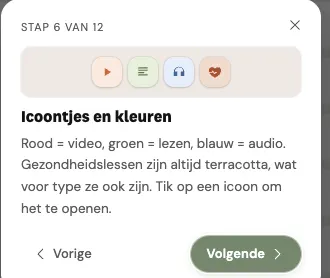
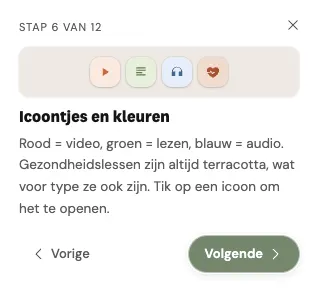
Replace puppyagenda tooltip image with clean borderless version
The "STAP 6 VAN 12" pop-up overlay on the puppyagenda progress section had a
hard black border baked into the screenshot, worked around in CSS by clipping
the corners and adding a border + box-shadow. Owner supplied a clean
recreation: a transparent PNG (317x290) with its own rounded corners and soft
shadow.

- Swap public/images/pa-tooltip.png for the clean version and regenerate the
  AVIF/WebP variants (served via OptimizedImage as web-friendly formats)
- Update SHOTS.tooltip width/height to the new 317x290 intrinsic ratio (CLS)
- Drop the now-redundant overflow/rounded/border/box-shadow wrapper hacks in
  progress.tsx; nudge offset/width for the new image's transparent padding

diff --git a/components/sections/puppyagenda/progress.tsx b/components/sections/puppyagenda/progress.tsx
@@ -18,15 +18,17 @@ export function PaProgress() {
             height={SHOTS.voortgang.height}
             sizes="(max-width: 1024px) 90vw, 600px"
           />
-          {/* Cleaned tooltip — corners clipped via overflow+radius. Shown from lg
-              up, where the negative offset lands in the column gap (no overflow). */}
-          <div className="absolute -bottom-7 -right-6 hidden w-[230px] overflow-hidden rounded-[14px] border border-[var(--ld-border)] shadow-[var(--ld-sh-3)] lg:block">
+          {/* Pre-rendered tooltip card — the PNG already carries its own rounded
+              corners and soft shadow (transparent padding around the card), so no
+              clip/border/box-shadow is needed. Shown from lg up, where the negative
+              offset lands in the column gap. */}
+          <div className="absolute -bottom-8 -right-8 hidden w-[250px] lg:block">
             <OptimizedImage
               src={SHOTS.tooltip.src}
               alt={SHOTS.tooltip.alt}
               width={SHOTS.tooltip.width}
               height={SHOTS.tooltip.height}
-              sizes="230px"
+              sizes="250px"
               className="block h-auto w-full"
             />
           </div>

diff --git a/components/sections/puppyagenda/curriculum.ts b/components/sections/puppyagenda/curriculum.ts
@@ -131,8 +131,8 @@ export const SHOTS = {
   },
   tooltip: {
     src: "/images/pa-tooltip.png",
-    width: 330,
-    height: 278,
+    width: 317,
+    height: 290,
     alt: "Uitleg in de app: icoontjes en kleuren per lestype",
   },
 } as const;
